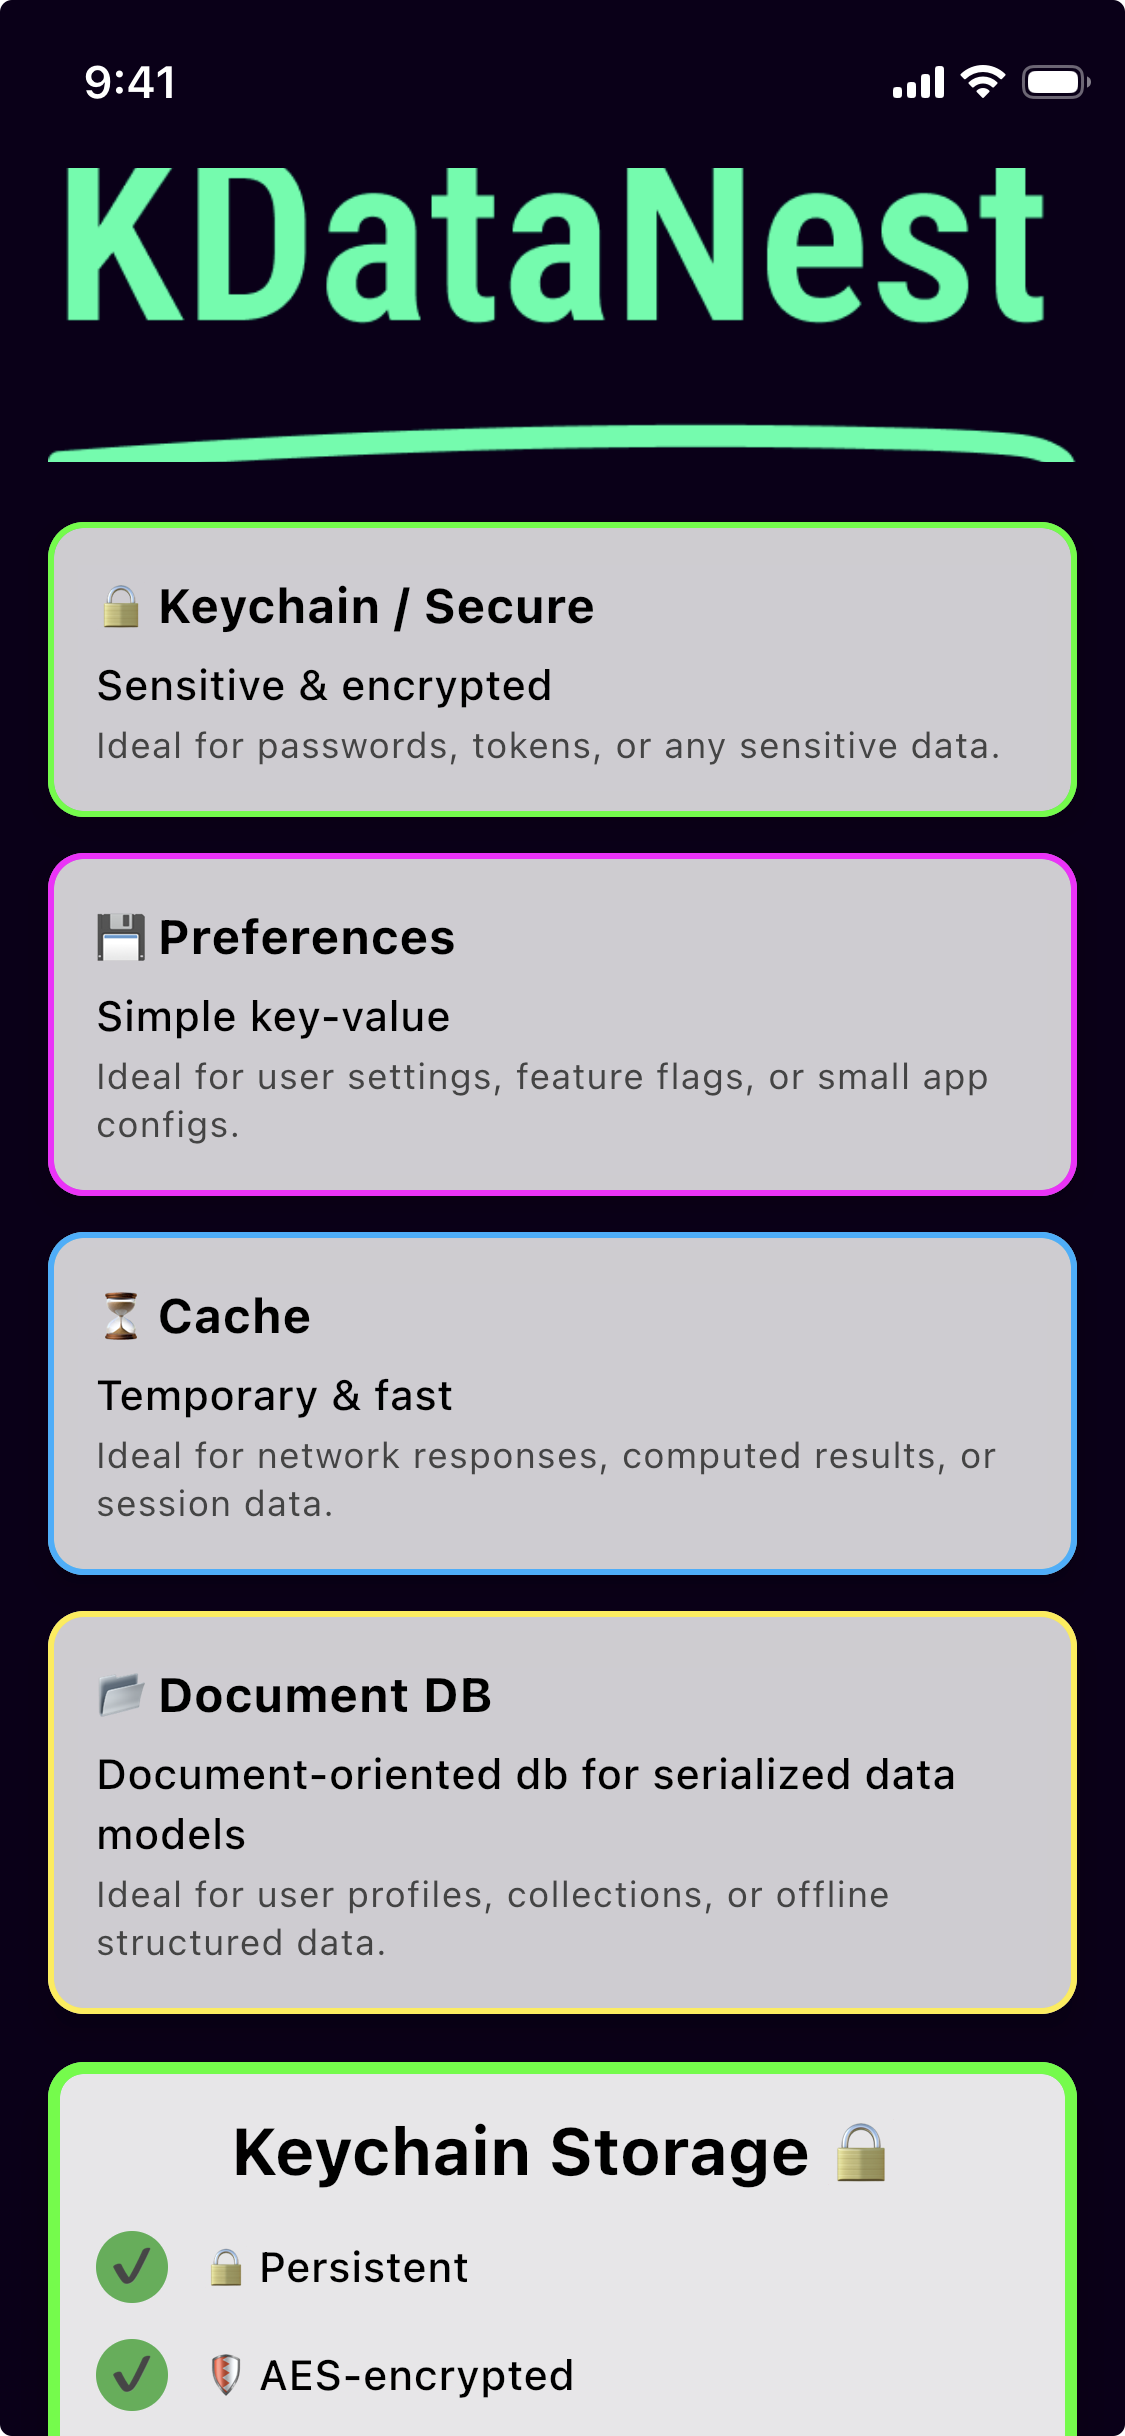
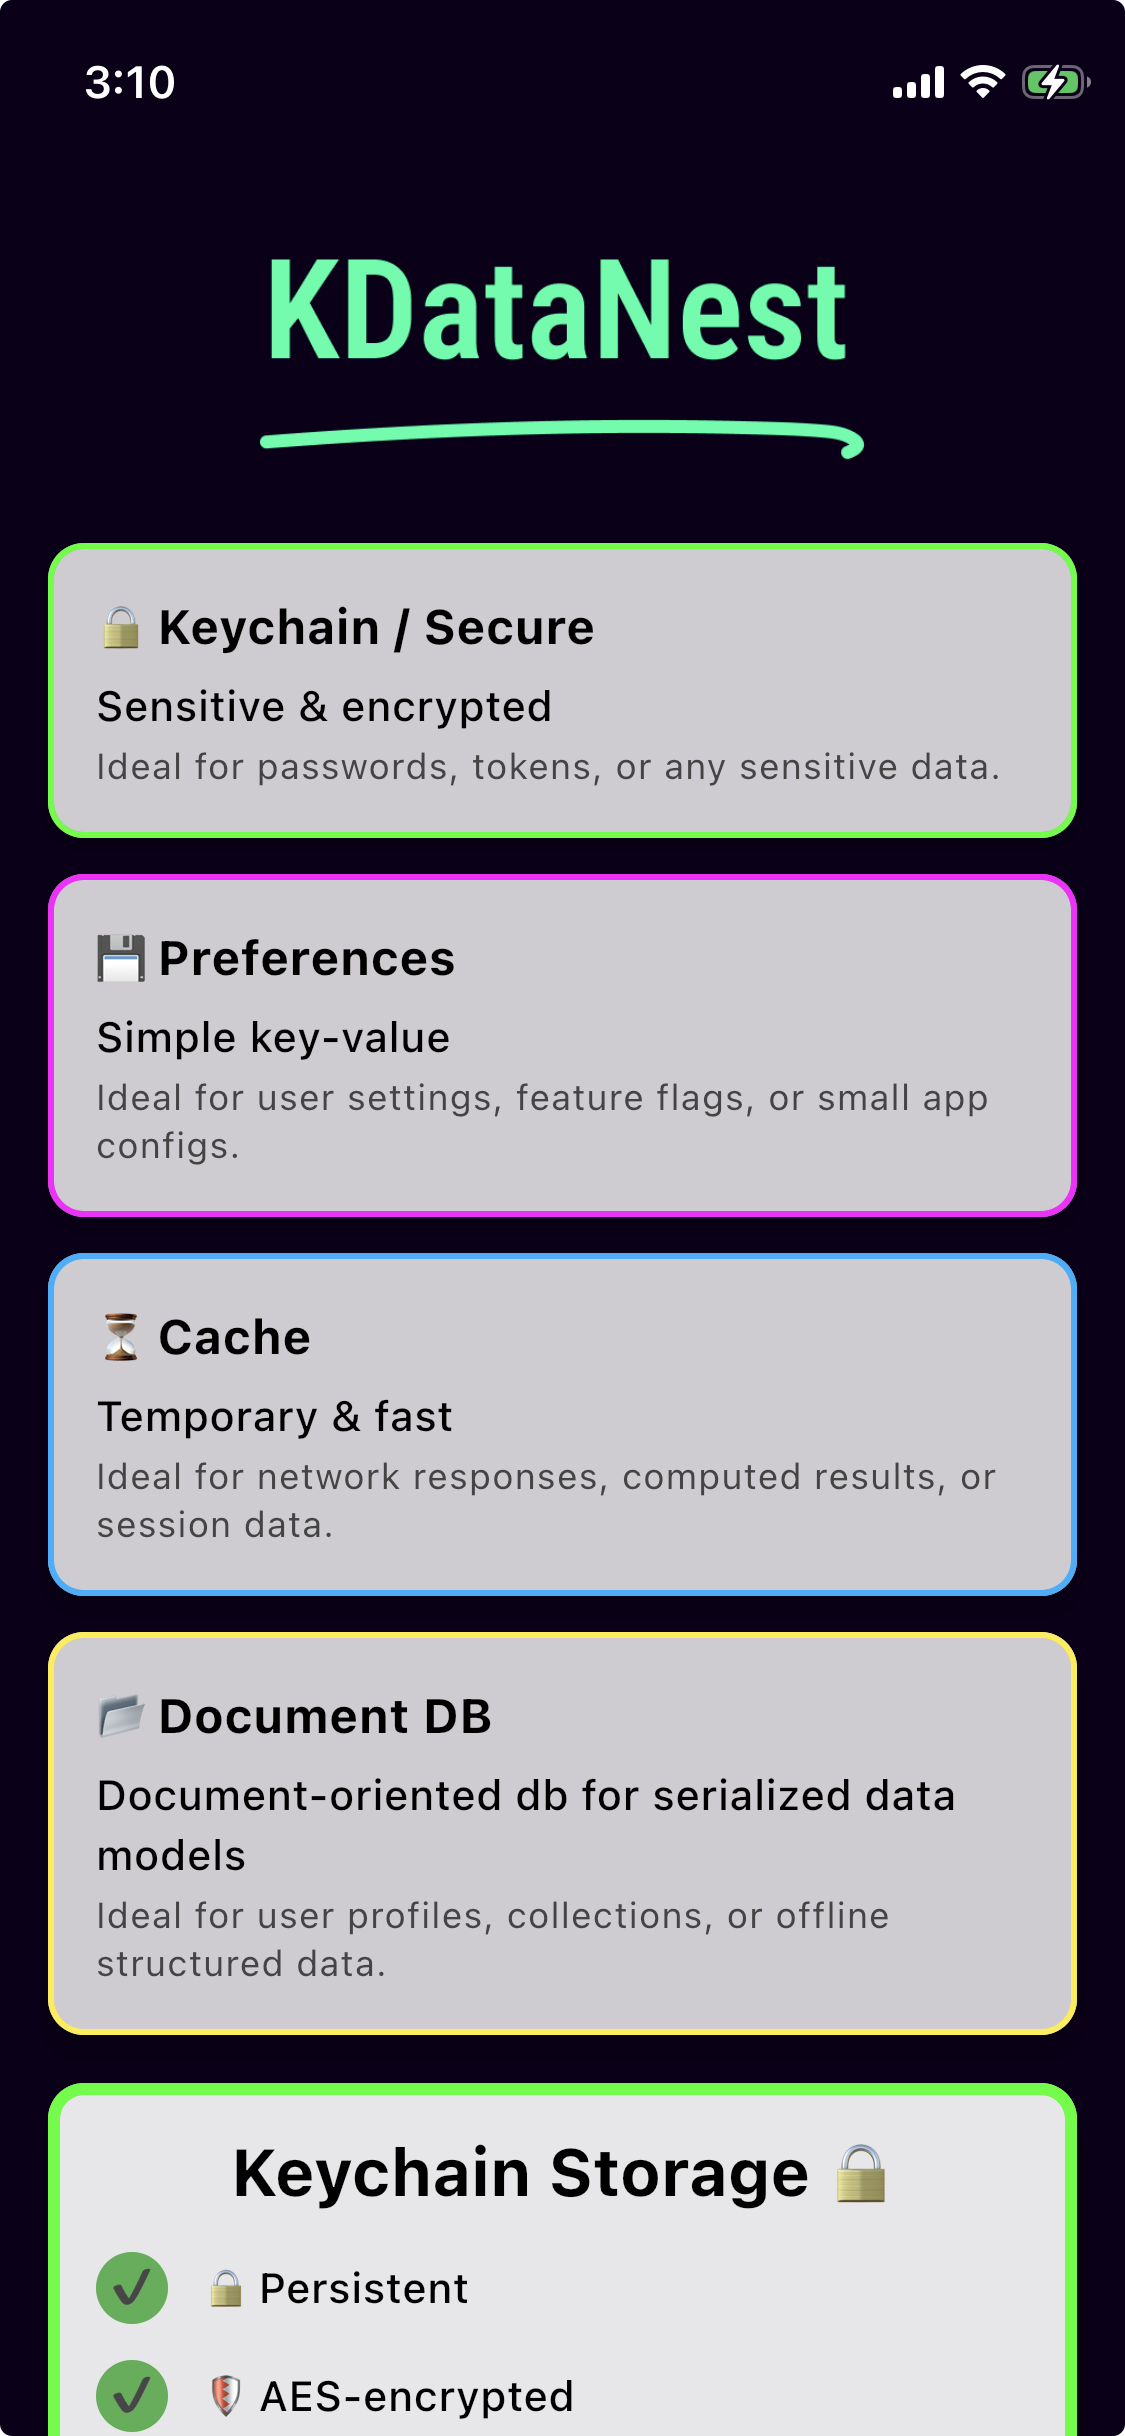
Published one new change

Changed region(s): [[0.0311, 0.0312, 0.9644, 0.9984], [0.0622, 0.9048, 0.1556, 0.9984]]

diff --git a/composeApp/src/commonMain/kotlin/network/chaintech/cmpstoragemanager/App.kt b/composeApp/src/commonMain/kotlin/network/chaintech/cmpstoragemanager/App.kt
@@ -125,10 +125,11 @@ fun App() {
                 painter = painterResource(Res.drawable.logo),
                 contentDescription = null,
                 modifier = Modifier
-                    .height(118.dp)
+                    .height(125.dp)
                     .padding(bottom = 20.dp)
+                    .padding(top = 20.dp)
                     .fillMaxSize(),
-                contentScale = ContentScale.Crop
+                contentScale = ContentScale.Fit
             )
 
             // Storage Overview Section
